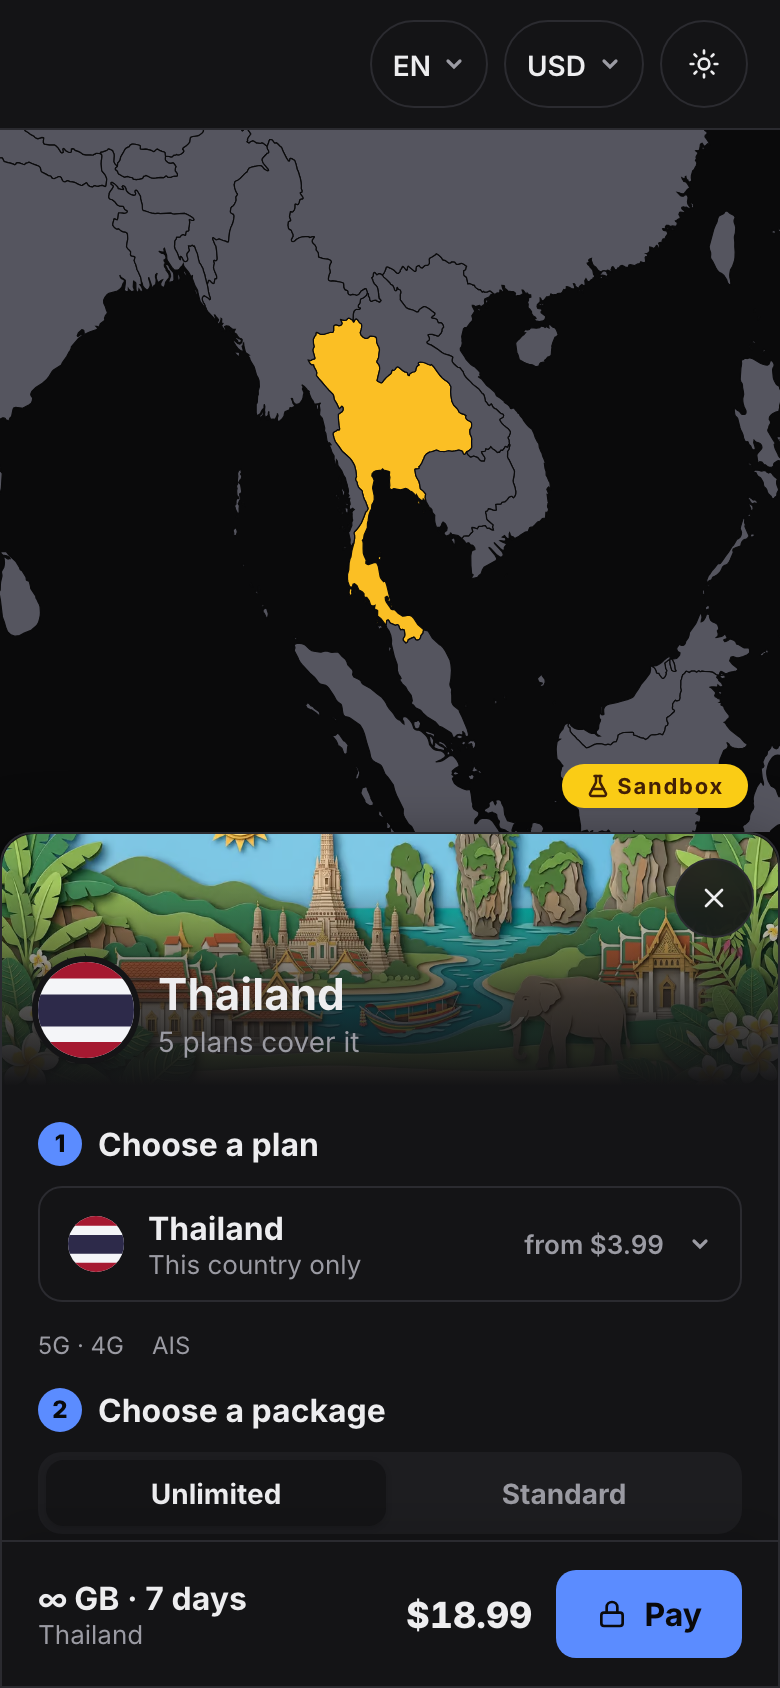
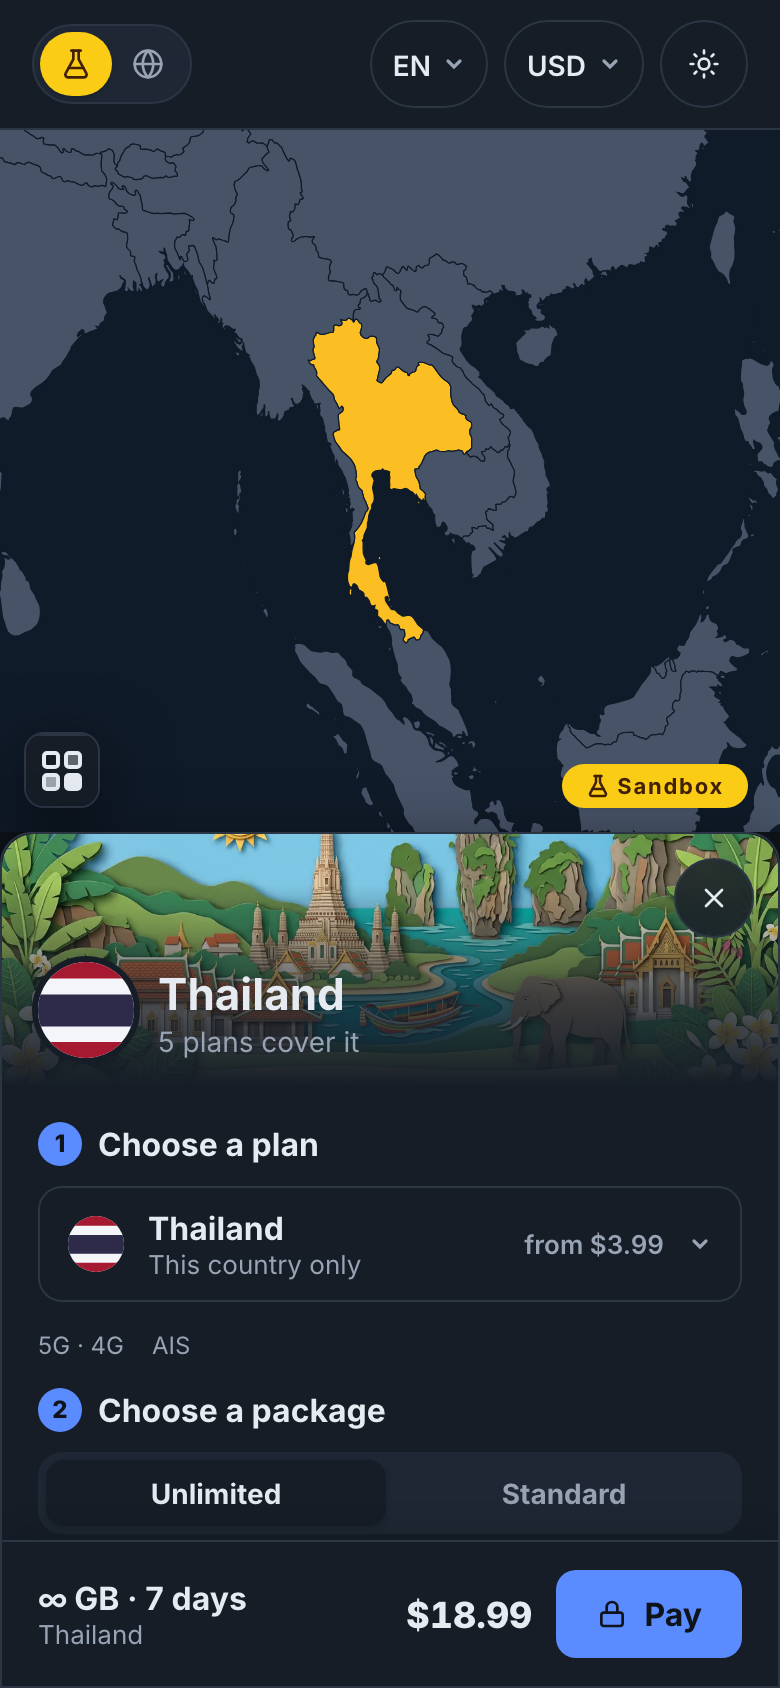
Retake the README screenshots with the current look
The screenshots now show the slate dark theme, the blue sea, the
Sandbox / Production switch, the plan dropdown, the Unlimited /
Standard switch and Pay in the panel's footer. A new one shows the
price heatmap with Europe selected, and the gallery is a two-by-two
grid with both phone views together.

Taken with headless Chromium against the dev server on Sandbox.

Changed region(s): [[0.0, 0.0616, 1.0, 0.4929], [0.0308, 0.0, 0.2462, 0.0616]]

diff --git a/README.md b/README.md
@@ -39,15 +39,11 @@ guest account lives in your browser, and a private link brings it to any other.
 
 ## Screenshots
 
-| Choosing Asia for Japan lights up every country it covers                      | Checkout: the partner discount, then Stripe's card form                      |
-| ------------------------------------------------------------------------------ | ---------------------------------------------------------------------------- |
-| ![The light theme, Japan on the Asia plan](docs/screenshots/desktop-light.png) | ![The checkout popup with a partner discount](docs/screenshots/checkout.png) |
-
-<p>
-  <img src="docs/screenshots/phone-start.png" alt="On a phone: the map, region quick picks and popular destinations" width="260">
-  &nbsp;
-  <img src="docs/screenshots/phone-plans.png" alt="On a phone: Thailand's plans in a bottom sheet, with Pay" width="260">
-</p>
+| Choosing Asia for Japan lights up every country it covers                      | The price heatmap: every country by its lowest price                                                                                                                                                                                                    |
+| ------------------------------------------------------------------------------ | ------------------------------------------------------------------------------------------------------------------------------------------------------------------------------------------------------------------------------------------------------- |
+| ![The light theme, Japan on the Asia plan](docs/screenshots/desktop-light.png) | ![The price heatmap with Europe selected](docs/screenshots/heatmap.png)                                                                                                                                                                                 |
+| **Checkout: the partner discount, then Stripe's card form**                    | **On a phone: quick picks, then a destination's plans**                                                                                                                                                                                                 |
+| ![The checkout popup with a partner discount](docs/screenshots/checkout.png)   | <img src="docs/screenshots/phone-start.png" alt="On a phone: the map, region quick picks and popular destinations" width="48%"> <img src="docs/screenshots/phone-plans.png" alt="On a phone: Thailand's plans in a bottom sheet, with Pay" width="48%"> |
 
 ## Running it
 
